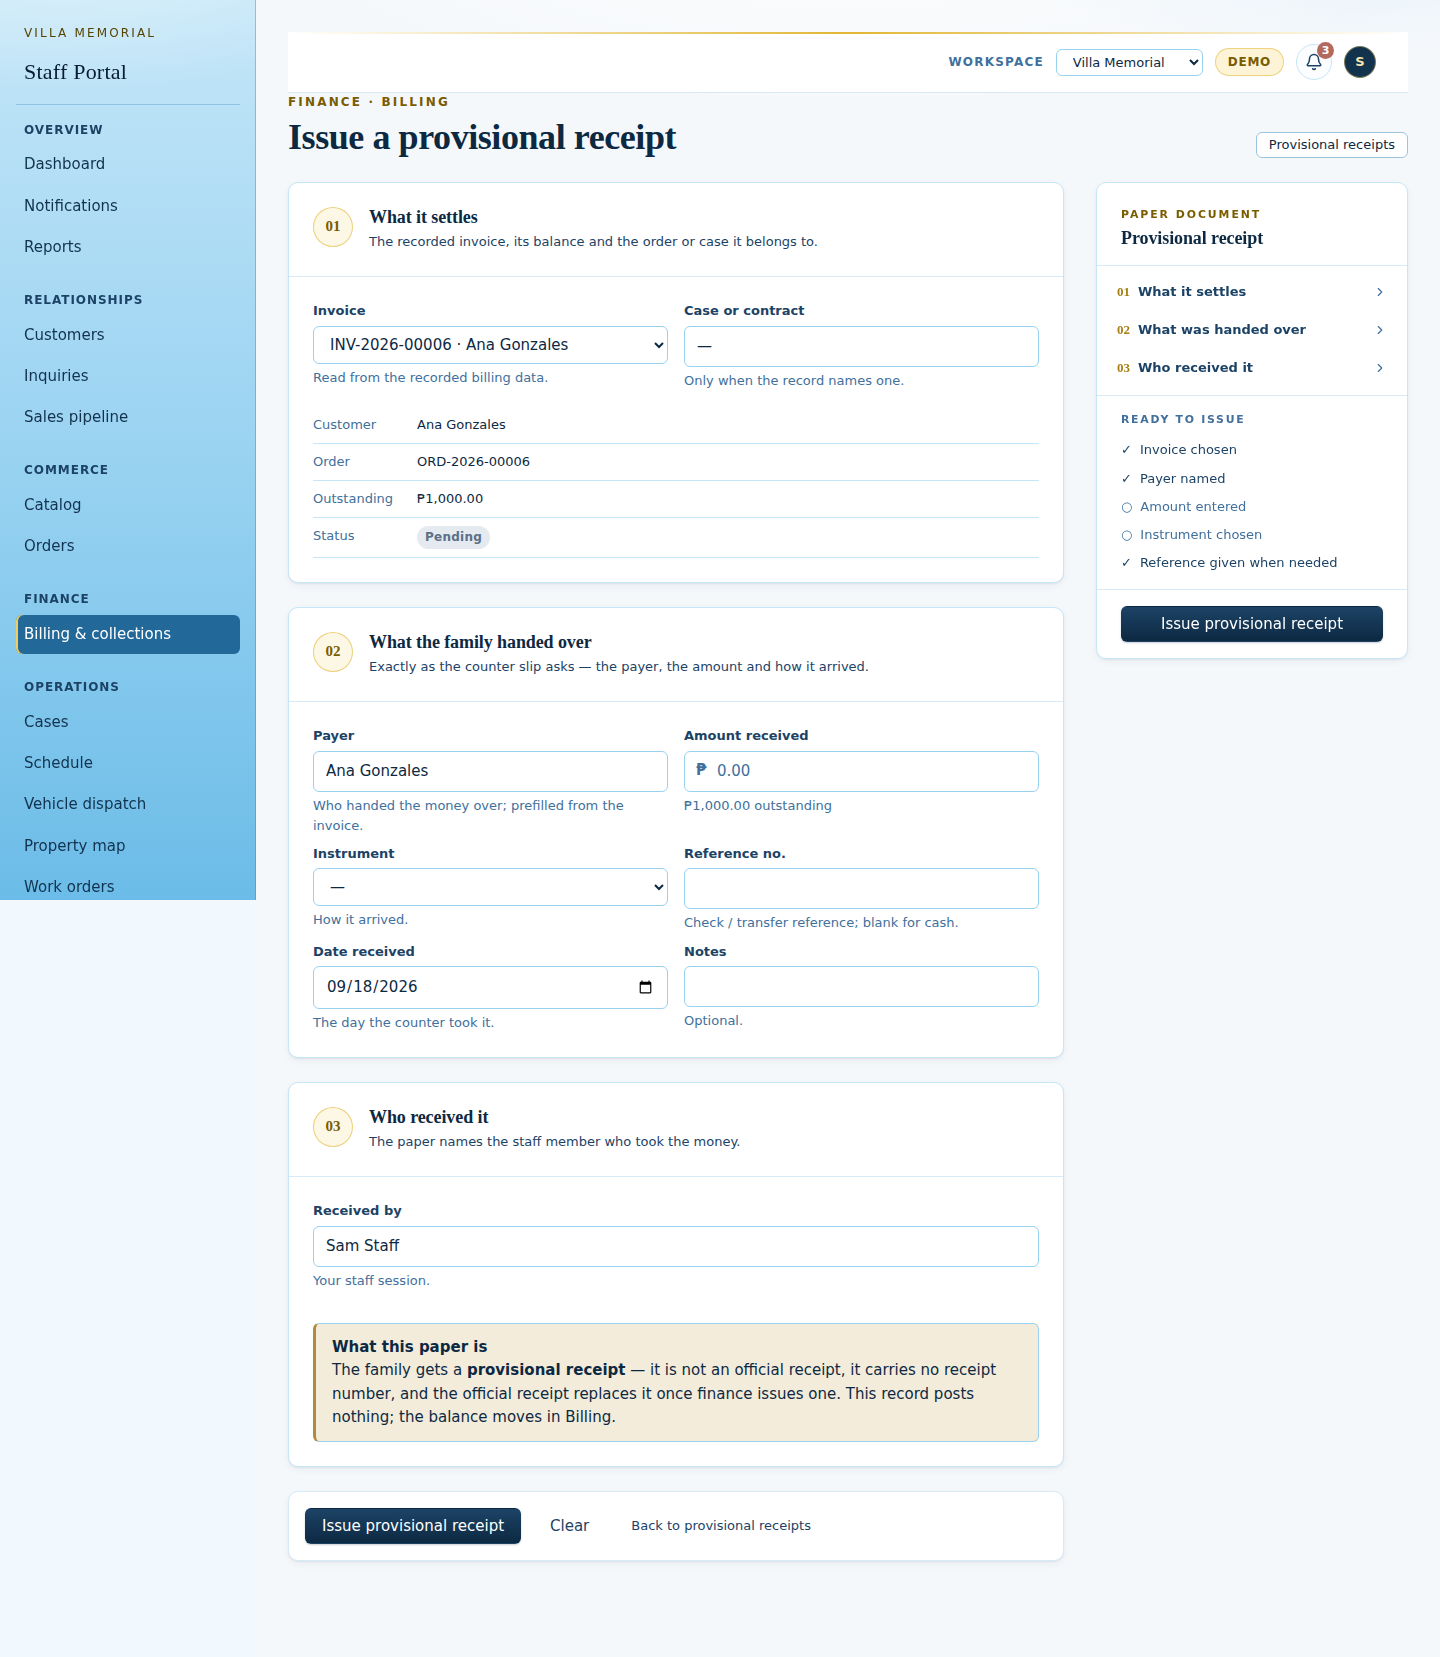
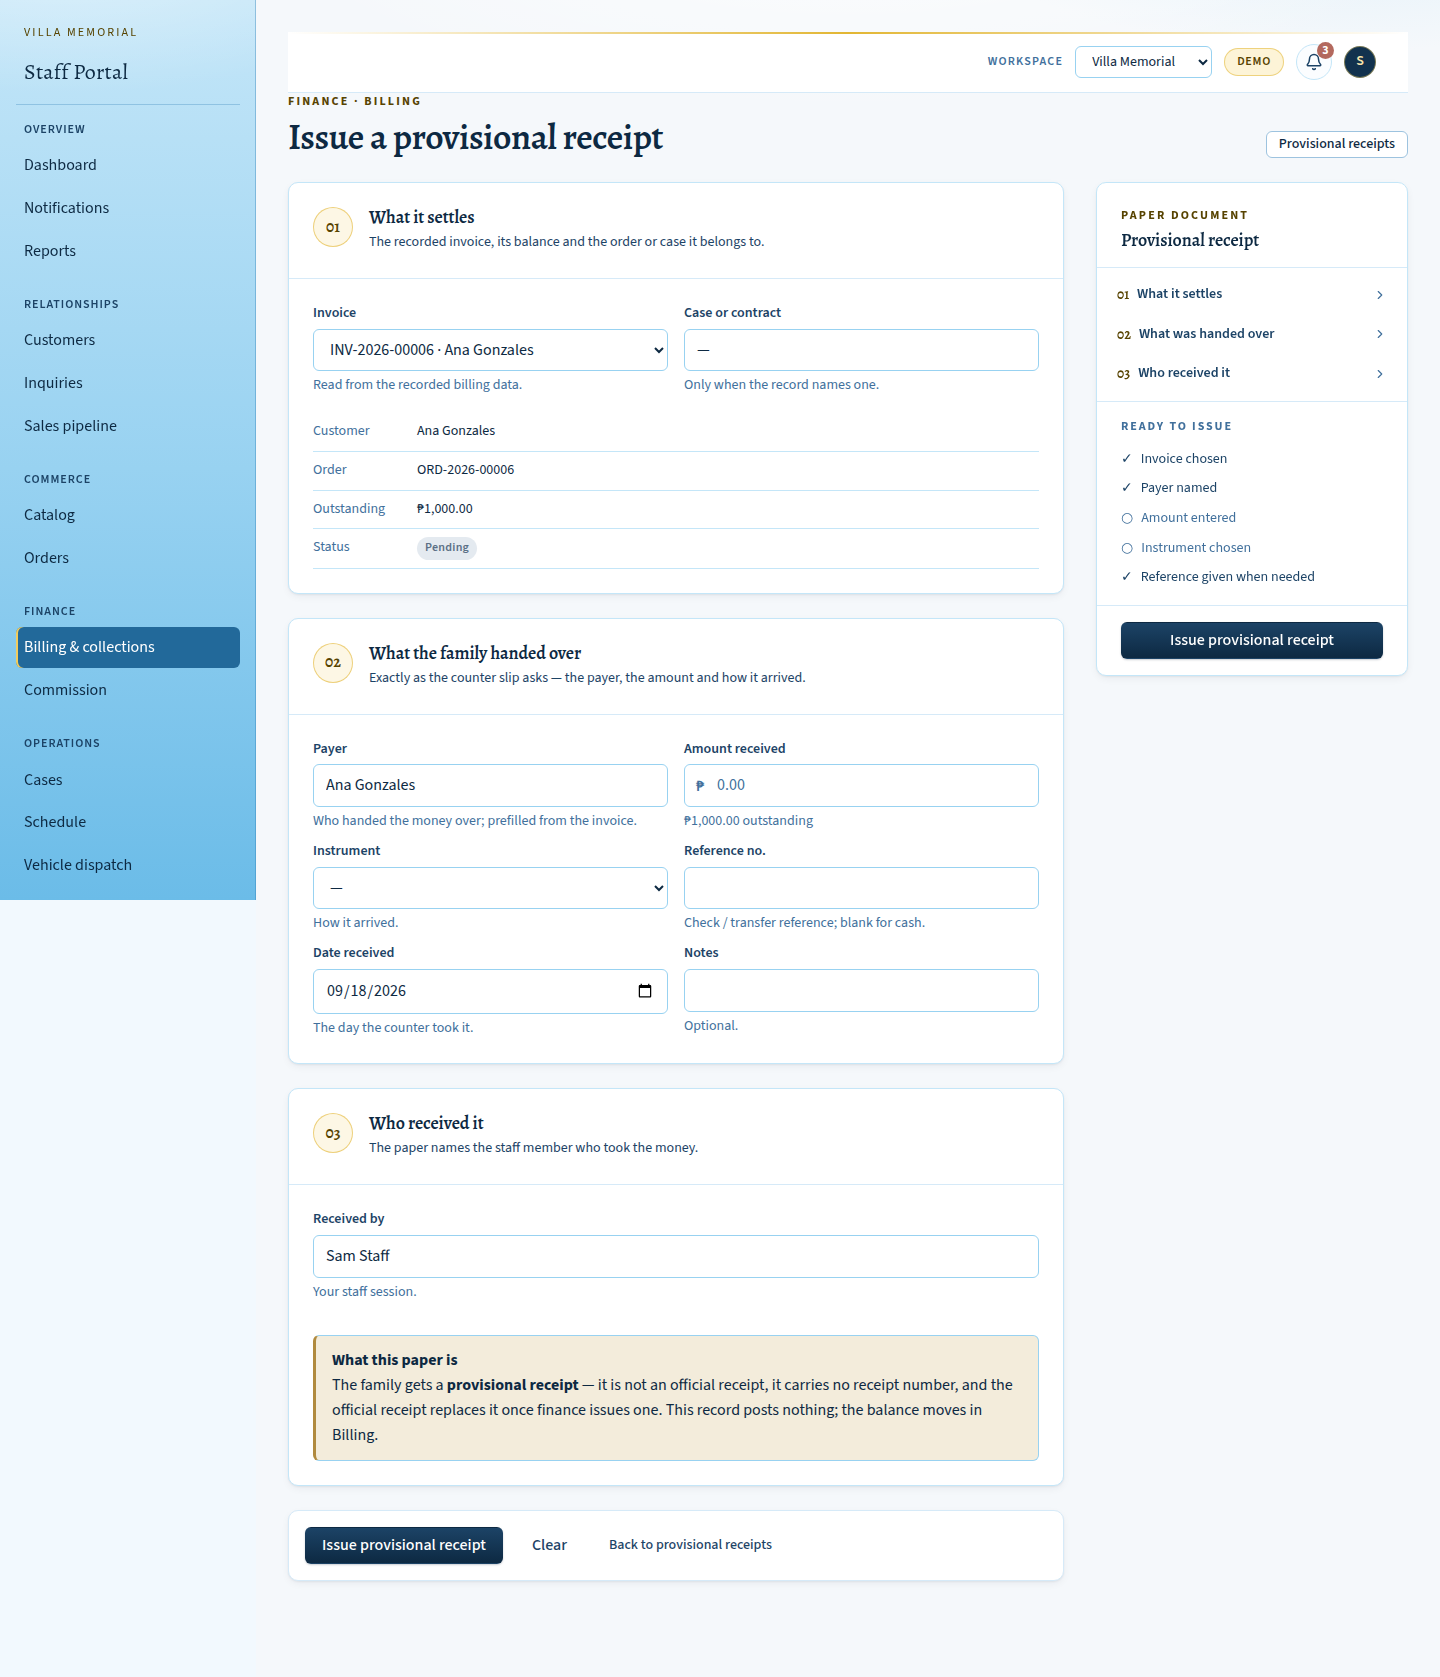
docs: refresh the F-18 render evidence on the rebased (type-voice) build
Main's typography work (#61) changed every type size, so the pre-rebase shots no
longer matched the branch. Retaken at 1440x900 and 390x844 on the rebased
production build with both display states seeded: no horizontal overflow
(1440/1440 and 390/390), one h1, the provisional mark present, the OR state
printing no provisional sheet. Measurements updated in the record.

diff --git a/docs/08-delivery/provisional-receipt-design/README.md b/docs/08-delivery/provisional-receipt-design/README.md
@@ -93,8 +93,15 @@ exists to avoid.
 
 ## Verification
 
-- `npm run lint` ✓ · `npm run typecheck` ✓ · `npm test` → **98 files / 1064 tests passed** ✓ ·
+- `npm run lint` ✓ · `npm run typecheck` ✓ · `npm test` → **114 files / 1252 tests passed** ✓ ·
   `npm run build` ✓ (routes build dynamic: list 242 B, detail 3.78 kB, capture 4.12 kB).
+- **Rebased onto main after #60–#62** (guarantee instruments · typography · gallery). The rebase
+  surfaced main's own type gate failing on the F-03 gallery block: five `font-size: var(--text-base)`
+  (a token the typography work retired, so those texts were rendering at the inherited size) and
+  four raw clamps. The nine declarations were normalized to ladder tokens (`--text-md`,
+  `--text-3xl`, `--text-display`) — desktop sizes preserved within ~2 px — because
+  `tests/unit/typography-system.test.ts` is a merge blocker. Nothing else of the gallery block was
+  touched.
 - **New tests:**
   - `tests/unit/provisional-receipts.test.ts` (15) — rules (shared billing half, payer bounds),
     the sheet's mark/fields/no-number, the office letterhead, the official-receipt match
@@ -113,8 +120,8 @@ exists to avoid.
 
   | Viewport | `h1` count | `scrollWidth` / `clientWidth` | Paper sheet | Export buttons |
   |---|---|---|---|---|
-  | 1440 × 900 | 1 (`Provisional receipt`, 279 × 42 at 288,116) | 1440 / 1440 | full Letter sheet inside the main column | Print 76 · Word 129 · PDF 71 wide, one row |
-  | 390 × 844 | 1 (full page; the staff rail precedes `main`) | 390 / 390 | 276 × 874 at (57,1948), fully inside the viewport | Print 76 × 41 · Word 113 × 41 · PDF 71 × 41, all reachable |
+  | 1440 × 900 | 1 (`Provisional receipt`, 271 × 42 at 288,116) | 1440 / 1440 | full Letter sheet inside the main column | Print · Word · PDF, one row |
+  | 390 × 844 | 1 (full page; the staff rail precedes `main`) | 390 / 390 | 276 × 874 at (57,1967), fully inside the viewport | Print 75 × 44 · Word 115 × 44 · PDF 70 × 44, all reachable |
 
   The provisional mark is present at both widths (`document.body.innerText.includes("Not an
   official receipt — the official receipt will replace this paper.")` → true). The list renders
